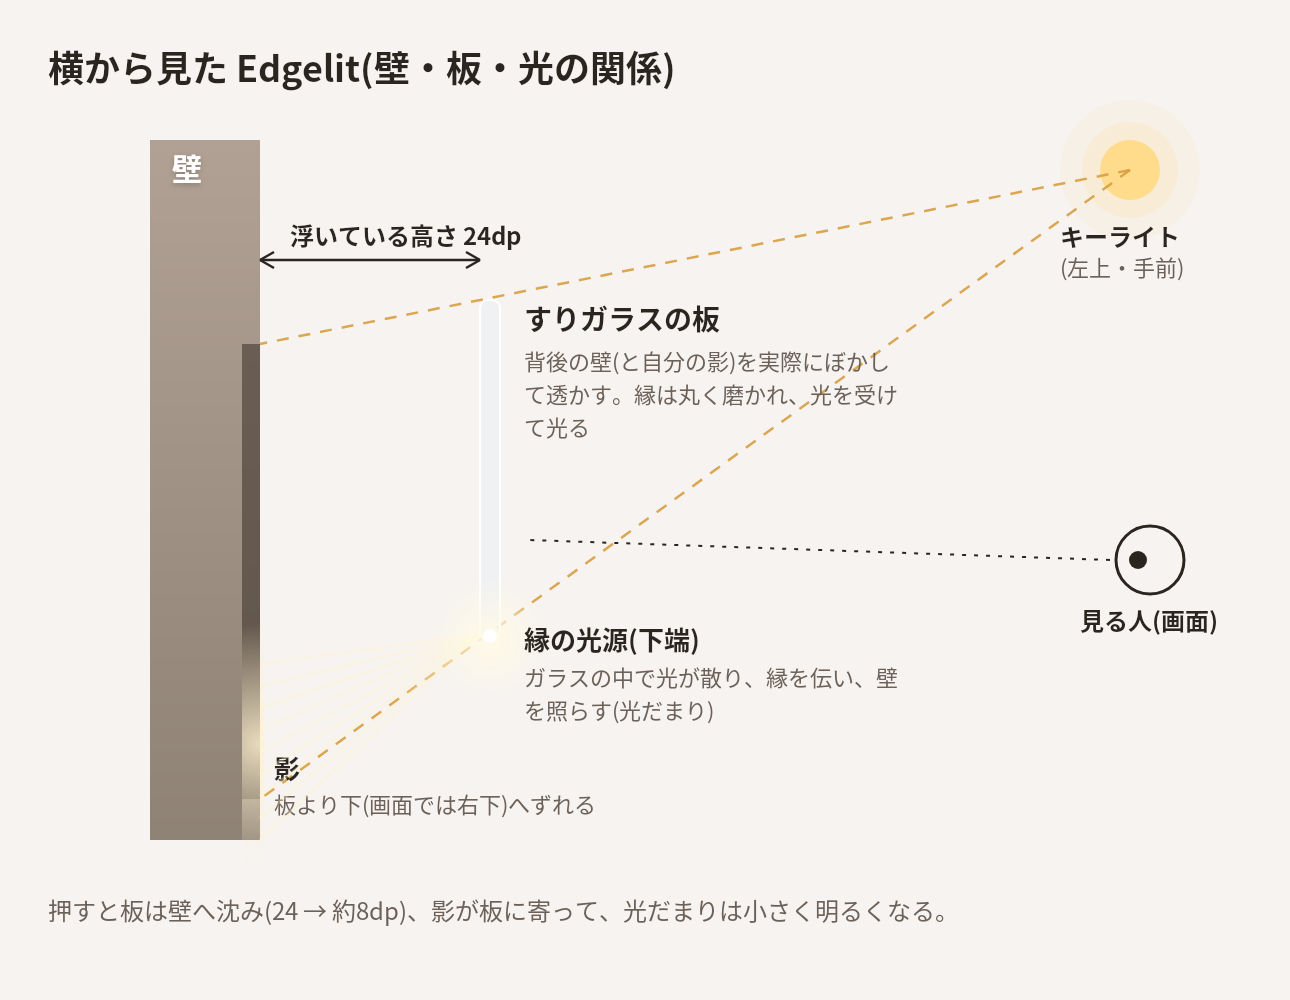
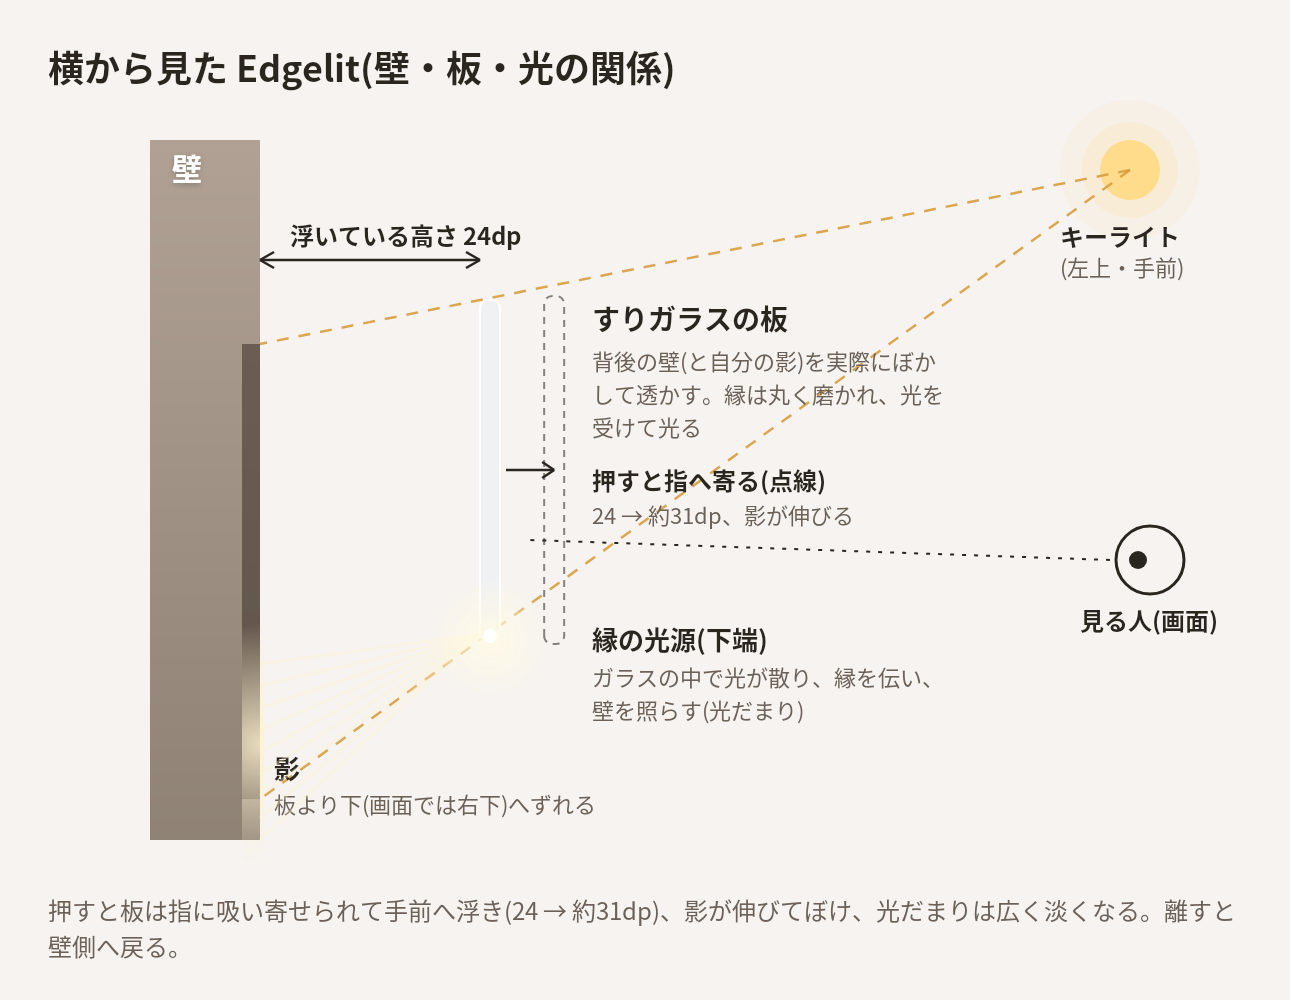
docs: Edgelit の図を「押すと指へ寄る」動きに合わせて描き直す
側面図・高さの図・押す前後の比較・ヒーローの合言葉・動きのGIF(4ebf862 のエミュレータ撮影)を更新。

Claude-Session: https://claude.ai/code/session_01MQNbRHqzubc8XfFUat4JWb

diff --git a/docs/edgelit/tools/plates2.py b/docs/edgelit/tools/plates2.py
@@ -149,10 +149,21 @@ c.drawRRect(skia.RRect.MakeRectXY(skia.Rect.MakeLTRB(px0, py0, px1, py1), 8, 8),
 glowp = skia.GradientShader.MakeRadial(skia.Point(px0 + 10, py1), 60, [skia.Color4f(1, 0.98, 0.9, 1).toColor(), skia.Color4f(1, 0.98, 0.9, 0).toColor()])
 c.drawCircle(px0 + 10, py1, 60, skia.Paint(Shader=glowp))
 c.drawCircle(px0 + 10, py1 - 4, 7, P((1, 1, 1), 1))
-g.draw_text(c, 'すりガラスの板', px1 + 24, py0 + 30, 28, INK, 700, shadow=False)
-g.draw_wrapped(c, '背後の壁(と自分の影)を実際にぼかして透かす。縁は丸く磨かれ、光を受けて光る', px1 + 24, py0 + 70, 380, 22, MUTED)
-g.draw_text(c, '縁の光源(下端)', px1 + 24, py1 + 10, 26, INK, 700, shadow=False)
-g.draw_wrapped(c, 'ガラスの中で光が散り、縁を伝い、壁を照らす(光だまり)', px1 + 24, py1 + 46, 380, 22, MUTED)
+# 押したときの板(指へ吸い寄せられて手前へ浮く: 24 → 約31dp)
+lift_px = (px0 - wallx) / 24 * 7
+ghost = skia.Paint(Color4f=skia.Color4f(*INK[:3], 0.55), AntiAlias=True, Style=skia.Paint.kStroke_Style, StrokeWidth=2,
+                   PathEffect=skia.DashPathEffect.Make([7, 6], 0))
+c.drawRRect(skia.RRect.MakeRectXY(skia.Rect.MakeLTRB(px0 + lift_px, py0 - 4, px1 + lift_px, py1 + 4), 8, 8), ghost)
+ay = (py0 + py1) / 2
+c.drawLine(px1 + 6, ay, px1 + lift_px - 10, ay, arrow_p := P(INK, 1, 2.5, True))
+c.drawLine(px1 + lift_px - 10, ay, px1 + lift_px - 22, ay - 8, arrow_p); c.drawLine(px1 + lift_px - 10, ay, px1 + lift_px - 22, ay + 8, arrow_p)
+tx0 = px1 + lift_px + 28
+g.draw_text(c, 'すりガラスの板', tx0, py0 + 30, 28, INK, 700, shadow=False)
+g.draw_wrapped(c, '背後の壁(と自分の影)を実際にぼかして透かす。縁は丸く磨かれ、光を受けて光る', tx0, py0 + 70, 360, 22, MUTED)
+g.draw_text(c, '押すと指へ寄る(点線)', tx0, ay + 20, 24, INK, 700, shadow=False)
+g.draw_text(c, '24 → 約31dp、影が伸びる', tx0, ay + 54, 22, MUTED, 400, shadow=False)
+g.draw_text(c, '縁の光源(下端)', tx0, py1 + 10, 26, INK, 700, shadow=False)
+g.draw_wrapped(c, 'ガラスの中で光が散り、縁を伝い、壁を照らす(光だまり)', tx0, py1 + 46, 360, 22, MUTED)
 # 高さの寸法
 arrow = P(INK, 1, 2.5, True)
 c.drawLine(wallx, 260, px0, 260, arrow)
@@ -165,5 +176,5 @@ c.drawCircle(vx, vy, 34, P(INK, 1, 3, True)); c.drawCircle(vx - 12, vy, 9, P(INK
 c.drawLine(vx - 40, vy, px1 + 30, vy - 20, skia.Paint(Color4f=skia.Color4f(*INK), AntiAlias=True, StrokeWidth=2, Style=skia.Paint.kStroke_Style,
                                                        PathEffect=skia.DashPathEffect.Make([4, 8], 0)))
 g.draw_text(c, '見る人(画面)', vx - 70, vy + 70, 24, INK, 700, shadow=False)
-g.draw_wrapped(c, '押すと板は壁へ沈み(24 → 約8dp)、影が板に寄って、光だまりは小さく明るくなる。', pad, 920, W3 - pad * 2, 24, MUTED)
+g.draw_wrapped(c, '押すと板は指に吸い寄せられて手前へ浮き(24 → 約31dp)、影が伸びてぼけ、光だまりは広く淡くなる。離すと壁側へ戻る。', pad, 920, W3 - pad * 2, 24, MUTED)
 save(s, '03-side-view.png')

diff --git a/docs/edgelit/tools/plates3.py b/docs/edgelit/tools/plates3.py
@@ -108,7 +108,7 @@ sc2 = 1.05
 w10, h10 = src.width() * sc2, src.height() * sc2
 s, c = canvas(int(pad * 2 + w10 * 2 + 40), int(pad + 80 + h10 + 120))
 g.draw_text(c, '押す前と押した後(エミュレータで撮影)', pad, pad + 34, 36, INK, 700, shadow=False)
-for i, (img, lab, desc) in enumerate([(cat, '休んでいる', '浮く高さ 24dp'), (pressed, '押し込み中', '約8dp に沈み、影が寄り、指の所が光る')]):
+for i, (img, lab, desc) in enumerate([(cat, '休んでいる', '浮く高さ 24dp'), (pressed, '押している間', '指へ寄って約31dp。影が伸び、指の所が光る')]):
     x = pad + i * (w10 + 40); y = pad + 80
     draw_img(c, img, x, y, w10, h10, src, r=18)
     g.draw_text(c, lab, x, y + h10 + 46, 28, INK, 700, shadow=False)
@@ -122,7 +122,7 @@ bg = wall_sc.render(('wall',))
 s, c = canvas(W1, H1)
 c.drawImage(bg, 0, 0)
 g.draw_text(c, 'Edgelit', 64, 130, 96, (1, 1, 1, 1), 700)
-g.draw_text(c, '縁灯(ふちあかり) — 縁から灯り、触れると沈む、すりガラス', 68, 196, 32, (1, 1, 1, 0.92), 500)
+g.draw_text(c, '縁灯(ふちあかり) — 縁から灯り、指に吸い付く、すりガラス', 68, 196, 32, (1, 1, 1, 0.92), 500)
 phones = [('list.png', 0), ('catalog.png', 1), ('edit.png', 2)]
 pw = 340; ph = pw * 2209 / 1080
 for name, i in phones:

diff --git a/docs/edgelit/tools/plates.py b/docs/edgelit/tools/plates.py
@@ -79,7 +79,7 @@ save(s, '05-glow-levels.png')
 
 # ---- 浮いている高さ ----
 sc = g.Scene(412, 128)
-for i, (lab, el) in enumerate([('押し込み 8dp', 8), ('通常 24dp', 24), ('フォーカス 30dp', 30)]):
+for i, (lab, el) in enumerate([('登場の途中 8dp', 8), ('通常 24dp', 24), ('押下中 約31dp', 31.2)]):
     x = 16 + i * 132
     sc.label(lab, x, 30, size=14)
     sc.add(x, 44, 112, 56, emit=0.7, elev=el, text='Aa')
@@ -87,5 +87,5 @@ img = sc.render()
 s, c = canvas(img.width() + 96, img.height() + 250)
 g.draw_text(c, '浮いている高さ(elevation)と影', 48, 82, 36, INK, 700, shadow=False)
 rounded_image(c, img, 48, 120)
-g.draw_wrapped(c, '影は高さに比例して右下へずれ、壁から離れるほどぼける。押すと沈んで影が寄り、光だまりが小さく明るくなる。', 48, img.height() + 172, img.width(), 24, MUTED)
+g.draw_wrapped(c, '影は高さに比例して右下へずれ、壁から離れるほどぼける。押すと板は指へ吸い寄せられて手前へ浮き(入力欄のフォーカスは 30dp)、影が伸び、光だまりは広く淡くなる。', 48, img.height() + 172, img.width(), 24, MUTED)
 save(s, '06-elevation.png')
